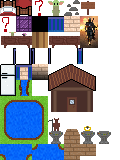
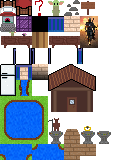
update

Changed region(s): [[0.0, 0.0938, 0.15, 0.2188]]

diff --git a/interface/pc.py b/interface/pc.py
@@ -1,0 +1,32 @@
+import pygame as py
+from interface import *
+from uti import *
+
+
+
+class Pc(Gui):
+    def __init__(self, player) -> None:
+        super().__init__("Pc", {}, player)
+        
+        
+    def tick(self, events: list[py.event.Event]):
+        
+        for i in events:
+            if i.type == py.KEYDOWN:
+                if i.key == py.K_e:
+                    self.player.gui = None
+                    
+            
+    def draw(self, screen):
+        x = (screen.get_width() - Textures["other"]["text_box"].get_width())/2
+        y = screen.get_height() -Textures["other"]["text_box"].get_height() - 20 
+        screen.blit(Textures["other"]["text_box"],(x,y))
+        
+
+        screen.blit(mc_font.render("Vous ne reconnaissez pas",0,(0,0,0)), (x+30-6,y+30-10-10))
+        screen.blit(mc_font.render("l'OS quelqu'un a du le",0,(0,0,0)), (x+30-6,y+60-10-10))
+        screen.blit(mc_font.render("changer mais vous le",0,(0,0,0)), (x+30-6,y+90-10-10))
+        screen.blit(mc_font.render("trouvez pas mal.",0,(0,0,0)), (x+30-6,y+120-10-10))
+        
+    
+registerGui(Pc)

diff --git a/objs/nature.py b/objs/nature.py
@@ -9,10 +9,7 @@ class Pebble(Obj):
     def __init__(self, x:float, y:float) -> None:
         super().__init__(self.__class__.__name__, x, y, False, Textures["Obj"]["pebble"],Hitbox(HITBOX_RECT_t,Vec(0,0),0,50,50))
 
-class Stone(Obj):
-    def __init__(self, x: float, y: float) -> None:
-        super().__init__(self.__class__.__name__, x, y,False,Textures["Obj"]["stone"])
-        self.hitbox=Hitbox(HITBOX_RECT_t,Vec(0,0),width=50,height=50)
+
 from random import randint , choice 
 class Grass(Obj):
     def __init__(self, x: float, y: float) -> None:
@@ -35,7 +32,6 @@ class Tree(Obj):
         
 
 
-registerObj(Stone)
 registerObj(Pebble)
 registerObj(Grass)
 registerObj(Tree)

diff --git a/objs/decoration.py b/objs/decoration.py
@@ -128,7 +128,12 @@ class plank_void(Obj):
         super().__init__(self.__class__.__name__, x, y, 1, Textures["Obj"]["plank_void"],HITBOX_50X50)
 
 
-
+class Pc(Obj):
+    def __init__(self, x:float, y:float) -> None:
+        super().__init__(self.__class__.__name__, x, y, 0, Textures["Obj"]["pc"],HITBOX_50X50)
+    def on_interact(self, world, user):
+        if user.pos.y >= self.pos.y + 50:
+            user.open_gui("Pc")
 
 
 class Sign(Obj):
@@ -200,3 +205,4 @@ registerObj(Bridge_middle)
 registerObj(Bridge_start)
 registerObj(Bridge_end)
 registerObj(Resurrection_stone_pedestal)
+registerObj(Pc)
